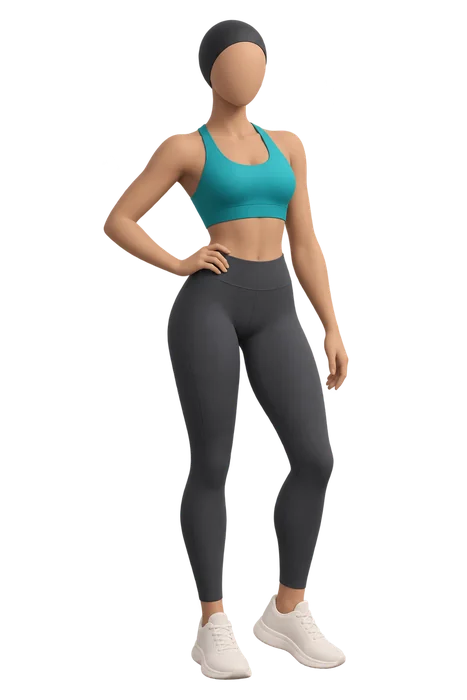
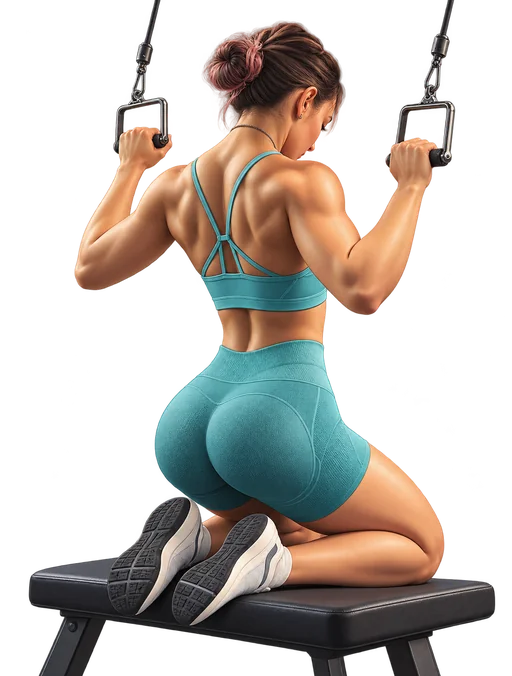
Update decorative athletic illustrations across auth and home screens

diff --git a/lib/presentation/widgets/home_welcome_banner.dart b/lib/presentation/widgets/home_welcome_banner.dart
@@ -4,6 +4,7 @@ import 'package:flutter/material.dart';
 class HomeWelcomeBanner extends StatelessWidget {
   static const coachAsset = 'assets/images/coach_athlete.webp';
   static const clientAsset = 'assets/images/client_athlete.webp';
+  static const authAsset = 'assets/images/auth_athlete.webp';
 
   final String? name;
   final String headline;

diff --git a/lib/presentation/widgets/login_welcome_panel.dart b/lib/presentation/widgets/login_welcome_panel.dart
@@ -48,7 +48,7 @@ class LoginWelcomePanel extends StatelessWidget {
     );
     final illustration = ExcludeSemantics(
       child: Image.asset(
-        HomeWelcomeBanner.clientAsset,
+        HomeWelcomeBanner.authAsset,
         width: wide ? 200 : 112,
         height: wide ? 320 : 224,
         fit: BoxFit.contain,
